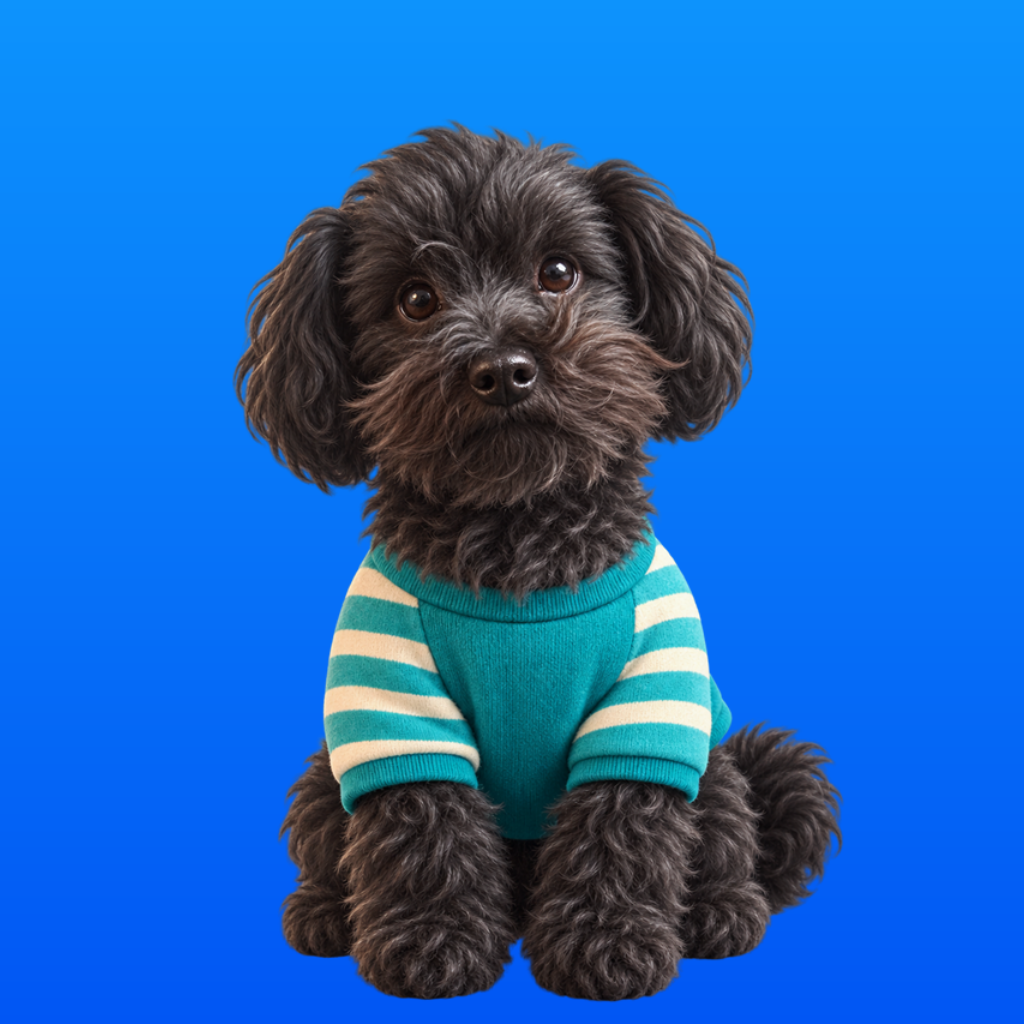
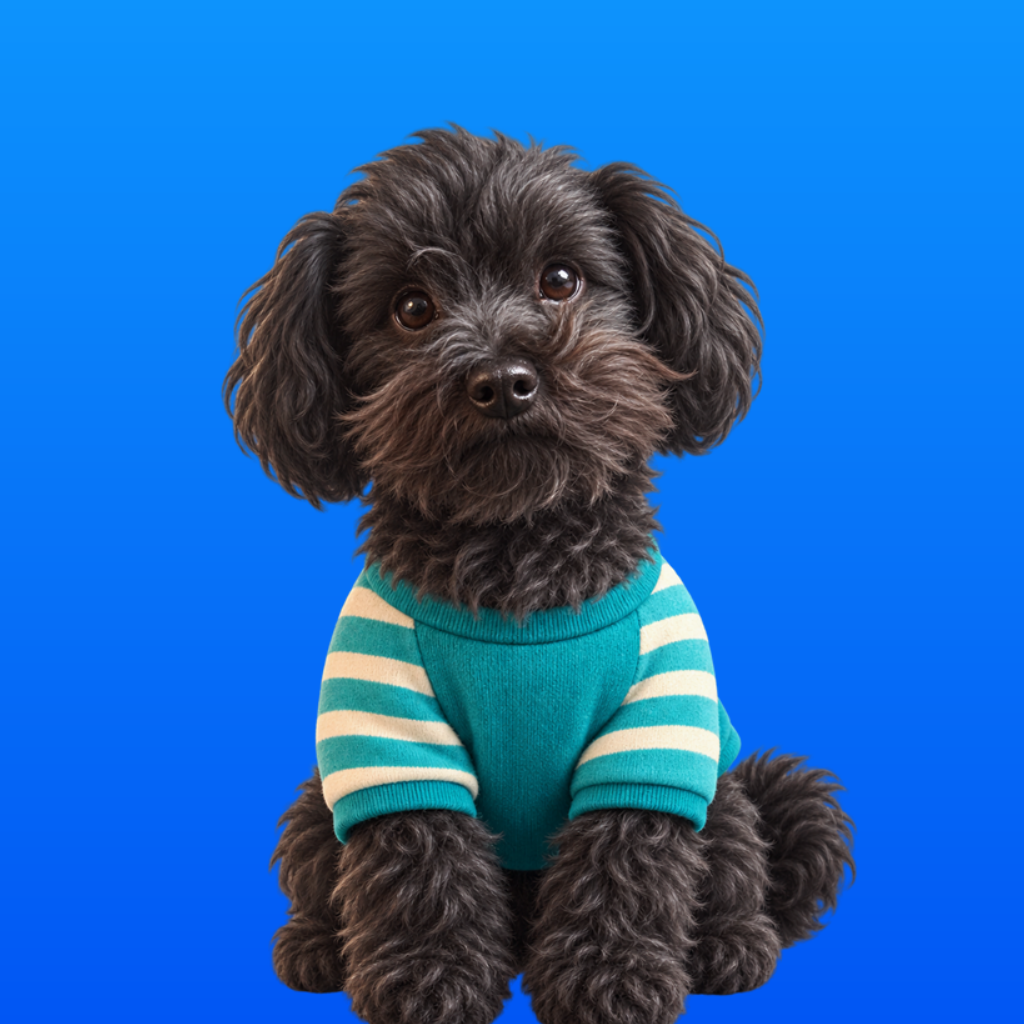
アイコンの微修正、ウィジェットデザインの修正

Changed region(s): [[0.2188, 0.125, 0.8438, 1.0]]

diff --git a/mobile/src/ui/settingsSheet.tsx b/mobile/src/ui/settingsSheet.tsx
@@ -23,9 +23,8 @@ function SettingSwitch({ value, disabled, label, onChange }: {
 
 const periodName = (labelMonth: string) => `${Number(labelMonth.slice(0, 4))}年${Number(labelMonth.slice(5, 7))}月度`;
 
-export function SettingsSheet({ settings, busy, error, notificationTestBusy, notificationTestMessage, dataBusy, dataMessage, onClose, onMoney, onChange, onTestNotification, onBackup, onRestore, onRestorePrevious, onDeleteAllData }: {
+export function SettingsSheet({ settings, busy, error, dataBusy, dataMessage, onClose, onMoney, onChange, onBackup, onRestore, onRestorePrevious, onDeleteAllData }: {
   settings: Settings; busy: boolean; error: string; onClose: () => void; onMoney: () => void;
-  notificationTestBusy: boolean; notificationTestMessage: string; onTestNotification: () => void;
   dataBusy: boolean; dataMessage: string; onBackup: () => void; onRestore: () => void; onRestorePrevious: () => void; onDeleteAllData: () => void;
   onChange: (changes: Partial<Pick<Settings, 'monthlyNotificationEnabled' | 'startDay' | 'adjustForWeekendsAndHolidays'>>) => void;
 }) {
@@ -91,13 +90,6 @@ export function SettingsSheet({ settings, busy, error, notificationTestBusy, not
             </View>
             <View style={styles.reminderOptions}>
               <Text style={styles.reminderExplanation}>月初は朝9:00。夜の確認は火・木・土の21:30に、アプリを開かなかった日だけ届きます。</Text>
-              <Pressable accessibilityRole="button" accessibilityLabel="5秒後にテスト通知を送る"
-                accessibilityState={{ disabled: notificationTestBusy || !settings.monthlyNotificationEnabled }}
-                disabled={notificationTestBusy || !settings.monthlyNotificationEnabled}
-                onPress={onTestNotification} style={styles.reminderTest}>
-                <Text style={styles.reminderTestText}>{notificationTestBusy ? '送信中…' : 'テスト通知を送る'}</Text>
-              </Pressable>
-              {notificationTestMessage ? <Text accessibilityRole="alert" style={styles.reminderExplanation}>{notificationTestMessage}</Text> : null}
             </View>
             </View>
           </View>
@@ -260,9 +252,6 @@ const styles = StyleSheet.create({
   notificationCard: { overflow: 'hidden', borderRadius: 20, backgroundColor: colors.white },
   reminderOptions: { paddingHorizontal: 14, paddingTop: 13, paddingBottom: 16, borderTopWidth: 1, borderTopColor: '#EDF1F1', gap: 10 },
   reminderExplanation: { color: '#637073', fontSize: 10, lineHeight: 16 },
-  reminderTest: { alignSelf: 'flex-start', minHeight: 38, justifyContent: 'center', paddingHorizontal: 14,
-    borderRadius: 12, backgroundColor: '#E8F4FF' },
-  reminderTestText: { color: colors.blue, fontSize: 12, fontWeight: '700' },
   dataRow: { minHeight: 68 },
   dataRowBorder: { borderTopWidth: 1, borderTopColor: '#EDF1F1' },
   rowPressed: { backgroundColor: '#F1F7FB' },

diff --git a/mobile/App.tsx b/mobile/App.tsx
@@ -24,7 +24,7 @@ import { todayInTokyo } from './src/ui/format';
 import { homeSkyImage, preloadOnboardingFirstImage, preloadVisualAssets } from './src/ui/imageAssets';
 import { CalendarSkyBackground, GraphSkyBackground } from './src/ui/skyBackground';
 import { cancelMonthlyNotifications, syncMonthlyNotifications } from './src/notifications/monthlyNotifications';
-import { cancelEveningReminders, isEveningReminderNotification, scheduleEveningReminderTest, syncEveningReminders } from './src/notifications/eveningReminders';
+import { cancelEveningReminders, isEveningReminderNotification, syncEveningReminders } from './src/notifications/eveningReminders';
 
 const messageOf = (error: unknown) => error instanceof Error ? error.message : '処理できませんでした。もう一度お試しください。';
 const SPLASH_MINIMUM_MS = 500;
@@ -58,8 +58,6 @@ function MobileApp() {
   const [dataBusy, setDataBusy] = useState(false);
   const [settingsError, setSettingsError] = useState('');
   const [notificationWarning, setNotificationWarning] = useState('');
-  const [notificationTestBusy, setNotificationTestBusy] = useState(false);
-  const [notificationTestMessage, setNotificationTestMessage] = useState('');
   const [dataMessage, setDataMessage] = useState('');
   const [error, setError] = useState('');
   const [revision, setRevision] = useState(0);
@@ -199,20 +197,6 @@ function MobileApp() {
       await refresh();
     } catch (cause) { setSettingsError(messageOf(cause)); }
     finally { setSettingsBusy(false); }
-  };
-
-  const testNotification = async () => {
-    if (notificationTestBusy) return;
-    setNotificationTestBusy(true);
-    setNotificationTestMessage('');
-    try {
-      await scheduleEveningReminderTest();
-      setNotificationTestMessage('5秒後にテスト通知を送ります。');
-    } catch (cause) {
-      setNotificationTestMessage(messageOf(cause));
-    } finally {
-      setNotificationTestBusy(false);
-    }
   };
 
   const saveMoney = async (amount: number) => {
@@ -427,8 +411,7 @@ function MobileApp() {
       <TabBar active={tab} onChange={setTab} />
       {settingsOpen && !moneyOpen && <SettingsSheet settings={settings} busy={settingsBusy} error={settingsError || notificationWarning}
         onClose={() => setSettingsOpen(false)} onMoney={() => { setSettingsOpen(false); setMoneyOpen(true); }}
-        onChange={changes => void saveSettings(changes)} onTestNotification={() => void testNotification()}
-        notificationTestBusy={notificationTestBusy} notificationTestMessage={notificationTestMessage}
+        onChange={changes => void saveSettings(changes)}
         dataBusy={dataBusy} dataMessage={dataMessage}
         onBackup={confirmBackup} onRestore={confirmRestore} onRestorePrevious={confirmRestorePrevious}
         onDeleteAllData={confirmDeleteAllData} />}

diff --git a/mobile/src/notifications/eveningReminders.ts b/mobile/src/notifications/eveningReminders.ts
@@ -95,27 +95,6 @@ export function cancelEveningReminders(): Promise<void> {
   return next;
 }
 
-export async function scheduleEveningReminderTest(): Promise<void> {
-  if (Platform.OS === 'web') throw new Error('通知テストはiPhoneまたはAndroid端末で行ってください');
-  let permission = await Notifications.getPermissionsAsync();
-  if (!permission.granted && permission.canAskAgain) permission = await Notifications.requestPermissionsAsync();
-  if (!permission.granted) throw new Error('端末の設定で通知を許可してください');
-  if (Platform.OS === 'android') {
-    await Notifications.setNotificationChannelAsync(CHANNEL_ID, {
-      name: '夜のやさしい確認', importance: Notifications.AndroidImportance.DEFAULT,
-    });
-  }
-  await Notifications.scheduleNotificationAsync({
-    content: {
-      title: '今日はどうだった？',
-      body: eveningReminderBodies[2],
-      data: { [TEST_KEY]: true },
-    },
-    trigger: { type: Notifications.SchedulableTriggerInputTypes.TIME_INTERVAL, seconds: 5,
-      ...(Platform.OS === 'android' ? { channelId: CHANNEL_ID } : {}) },
-  });
-}
-
 export function isEveningReminderNotification(data: Record<string, unknown>): boolean {
   return data[MANAGED_KEY] === true || data[TEST_KEY] === true;
 }

diff --git a/mobile/src/widgets/openHomeWidget.tsx b/mobile/src/widgets/openHomeWidget.tsx
@@ -16,7 +16,7 @@ function OpenHomeWidget({ amountText, daysText }: OpenHomeWidgetProps) {
     <ZStack modifiers={[
       widgetURL('zuborakakeibo://home'),
       containerBackground({ type: 'material', material: 'regular' }, 'widget'),
-      clipShape('roundedRectangle', 16),
+      clipShape('roundedRectangle', 12),
     ]}>
       <AccessoryWidgetBackground />
       <VStack spacing={1} modifiers={[frame({ maxWidth: Infinity, maxHeight: Infinity, alignment: 'center' })]}>

diff --git a/docs/design/DESIGN.md b/docs/design/DESIGN.md
@@ -10,9 +10,8 @@ WebモックとReact Native版は同じ画面方針を共有します。React Na
 
 ## ホーム画面
 
-- アプリアイコンは犬を円形で囲まず、画像全体に上 `#0D93FC`・下 `#0156F4` の青いグラデーション背景を適用する。
-- iOSロック画面の横長ウィジェットは表示内容を角丸でクリップし、iOSの背景・単色表示への適応を維持する。
-- 設定画面にはTestFlightでも使える一時的な「テスト通知を送る」ボタンを置く。通知がONなら押下時に5秒後のローカル通知を1件予約し、通常の通知予約と分離する。
+- アプリアイコンは犬を円形で囲まず、画像全体に上 `#0D93FC`・下 `#0156F4` の青いグラデーション背景を適用する。犬の足元は画像下端で少し切れる構図にする。
+- iOSロック画面の横長ウィジェットは表示内容を約 12 pt の角丸でクリップし、iOSの背景・単色表示への適応を維持する。
 
 - iOSロック画面には横長のウィジェットを用意する。ビルド21で表示できた構成に戻し、今月の残額と残り日数を中央に2行で表示する。犬・「¥」の透かし・独自の背景色・枠線は置かず、背景と文字色はiOSのロック画面の色彩・単色表示に適応させる。長い金額は文字を縮小する。初期設定前は金額・日数をダッシュで示す。表示内容はアプリ起動・復帰・記録更新時に同期する。タップ時はアプリのホームへ遷移し、別タブやボトムシートが開いていてもホームを見せる。初回設定中は設定フローを優先する。残額がロック画面に表示される点に注意する。
 - 犬のキャラクターは確定。
